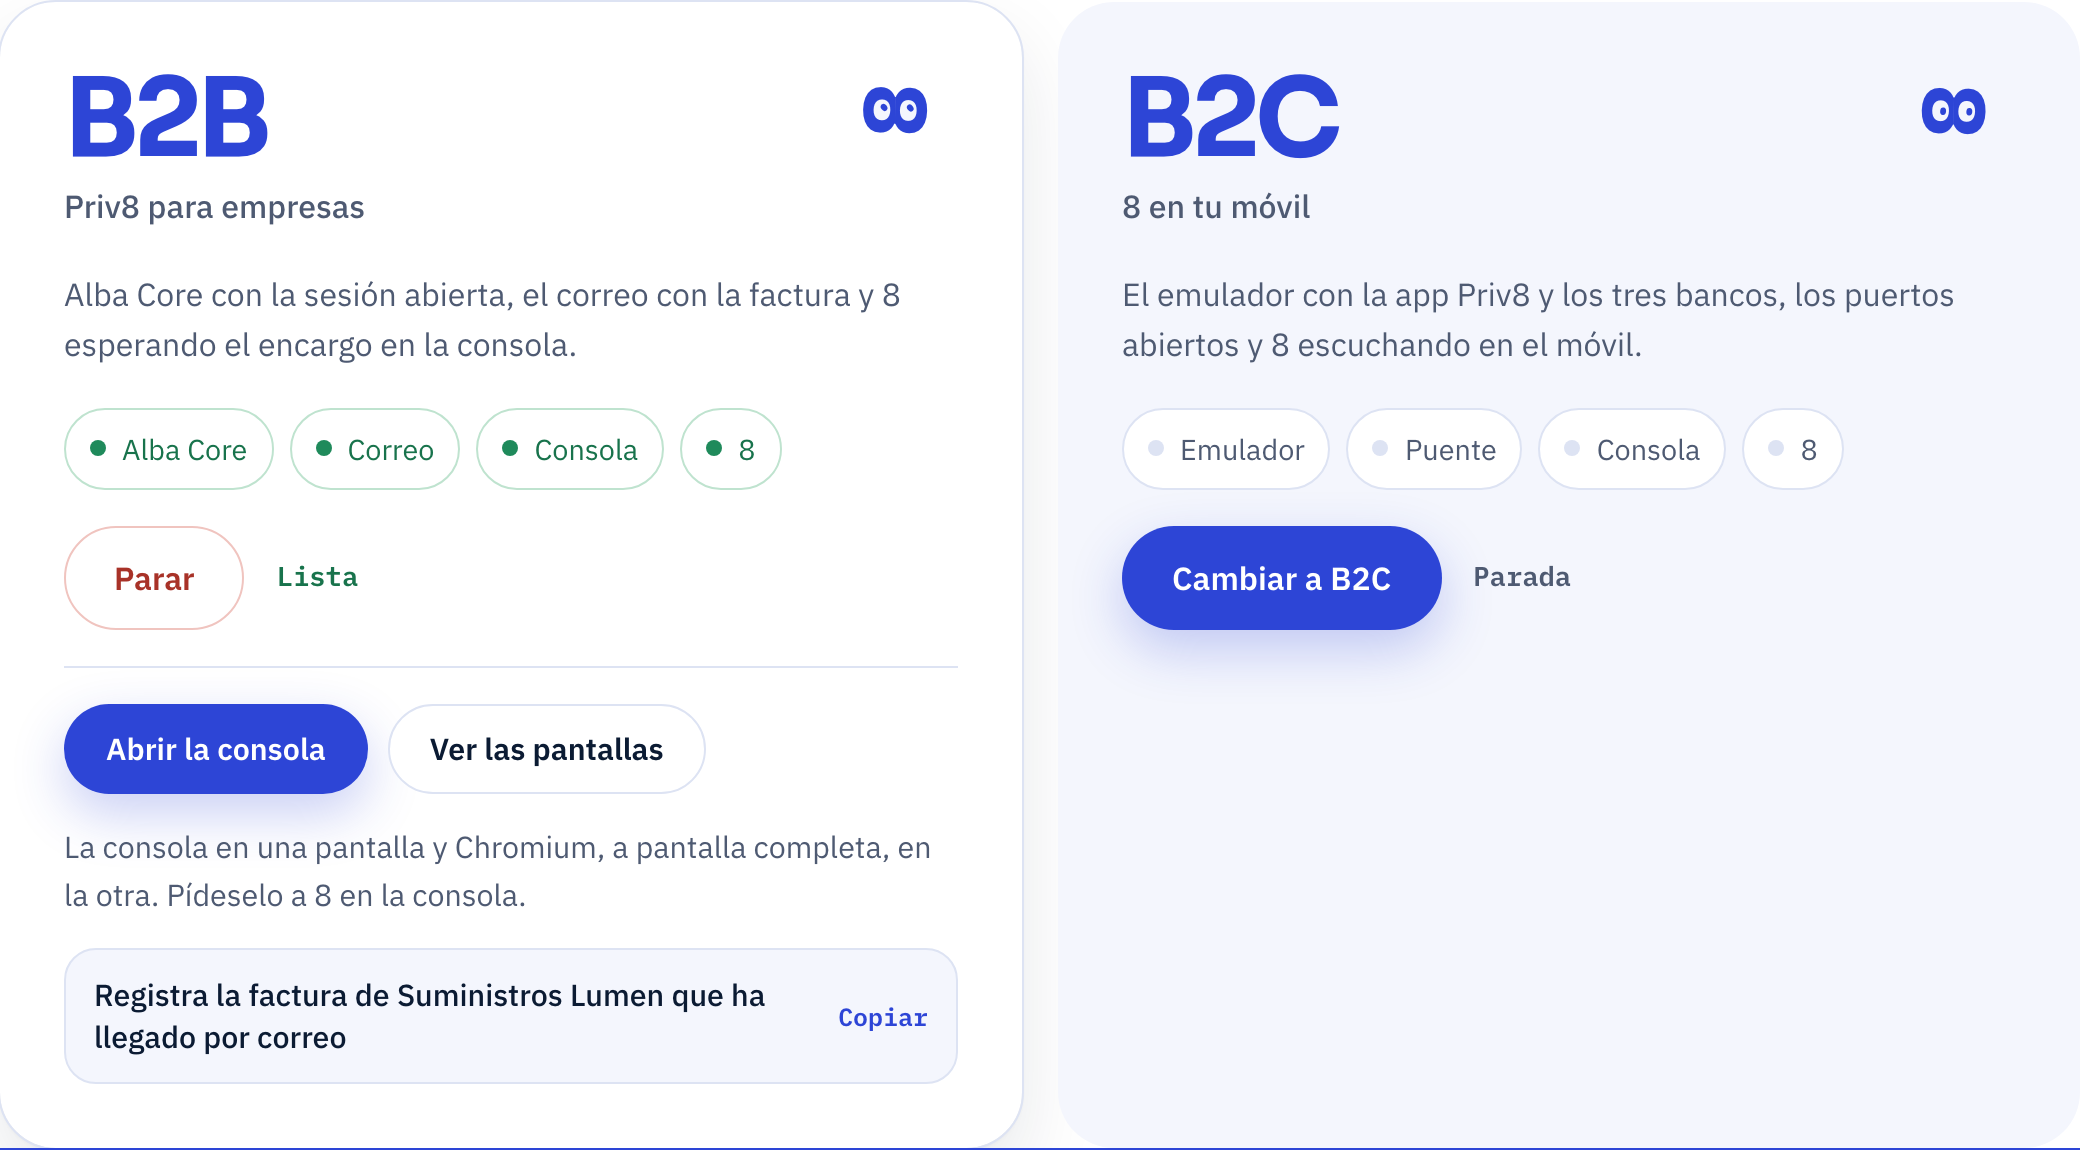
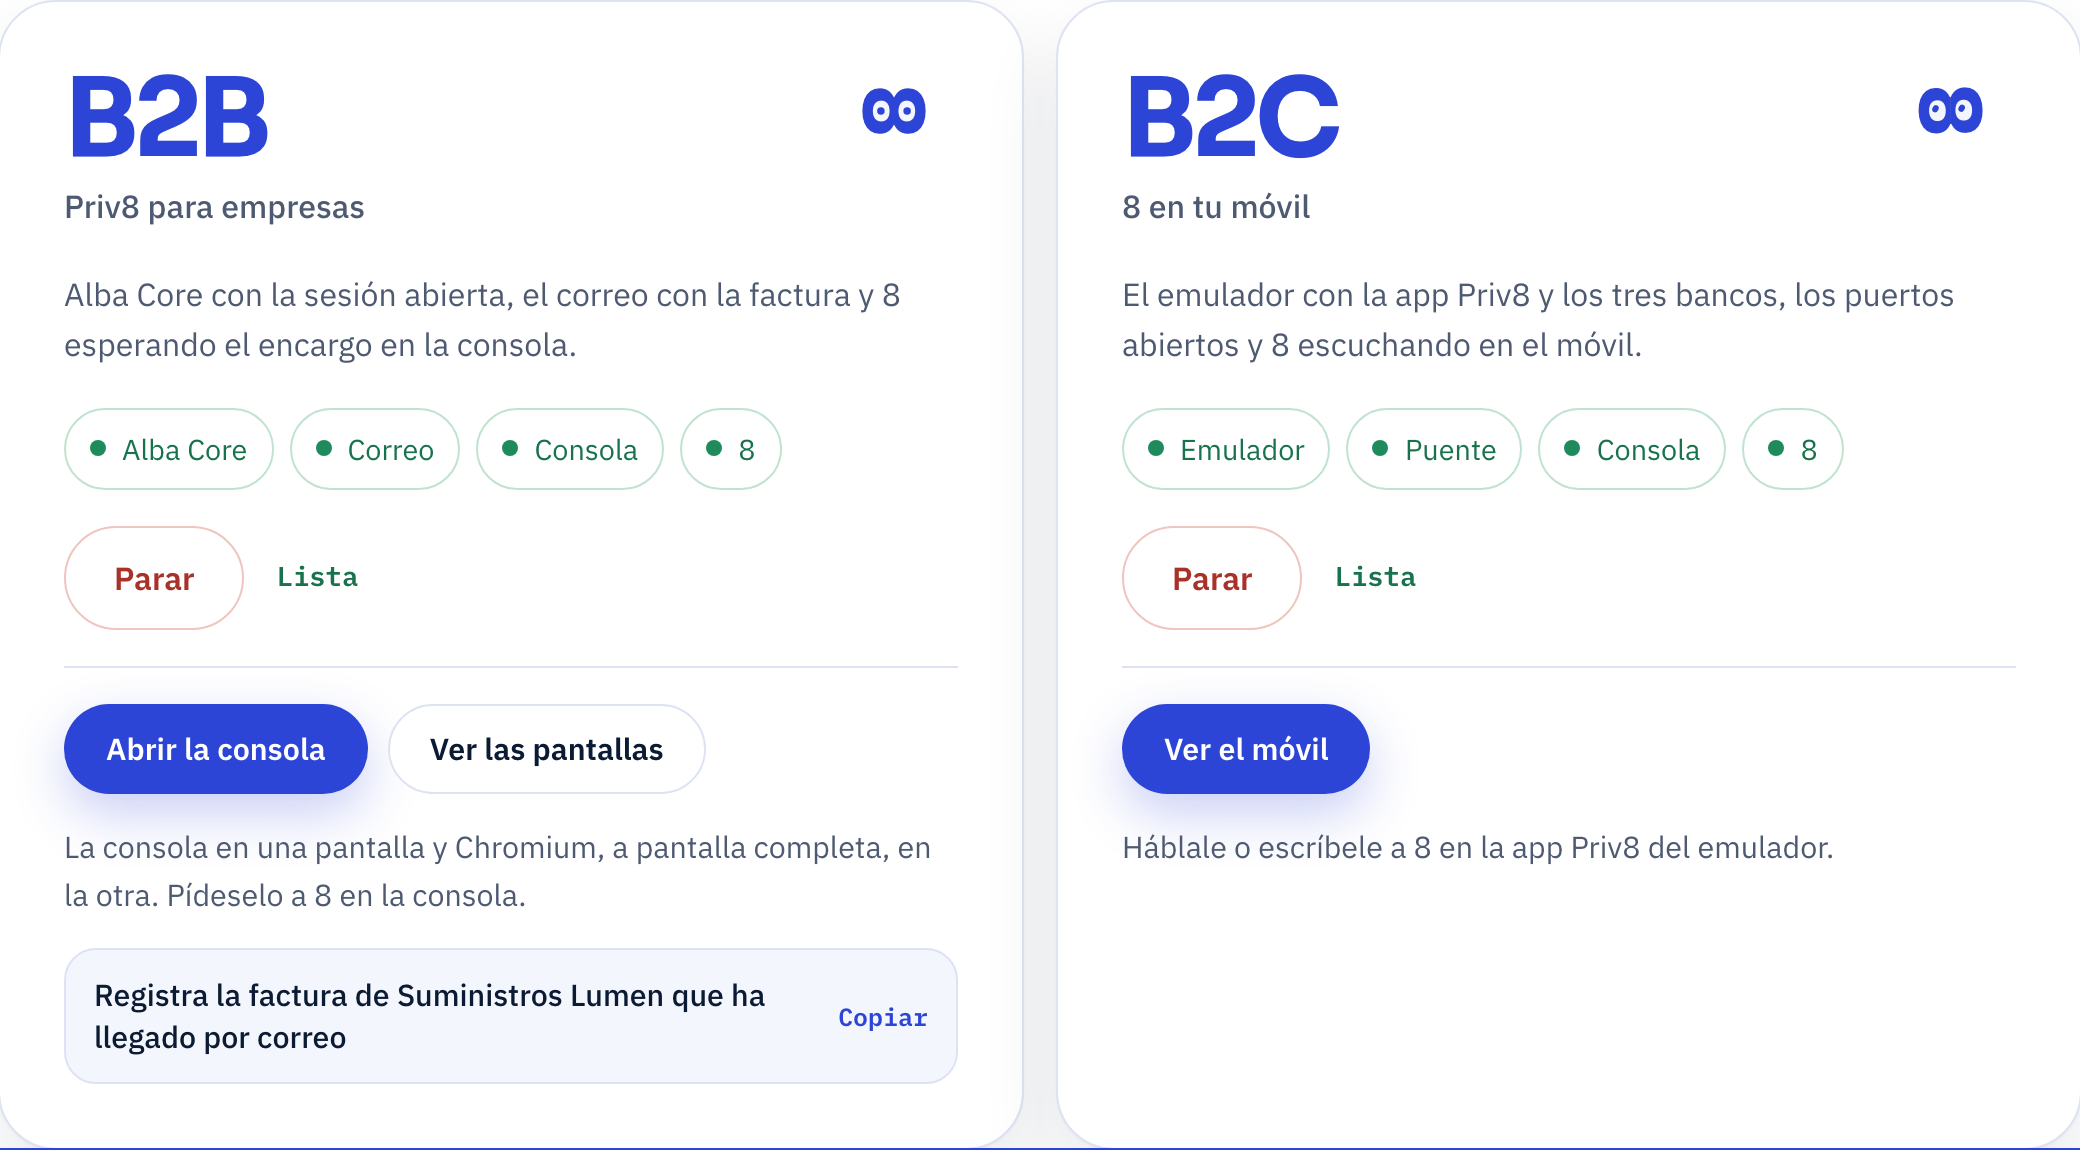
docs(readme): panel image with B2B and B2C both ready
Part of #164

diff --git a/apps/panel/src/App.jsx b/apps/panel/src/App.jsx
@@ -71,7 +71,8 @@ const OJOS = { parado: 'mirar', preparando: 'cargando', listo: 'alegria', error:
 
 function Demo({ id, estado, onAccion, busy }) {
   const d = DEMOS[id];
-  const activo = estado && estado.modo === id;
+  // modos: las dos encendidas a la vez, solo para la imagen del README (scripts/banners.py)
+  const activo = estado && (estado.modo === id || (estado.modos || []).includes(id));
   const fase = activo ? estado.fase : 'parado';
   const piezas = (activo && estado.piezas) || {};
   const otro = estado && estado.modo && estado.modo !== id;

diff --git a/scripts/banners.py b/scripts/banners.py
@@ -100,10 +100,11 @@ APPS = {
     "alba": (5283, "apps/erp-sim", {"VITE_ALBA_SESION": "admin.alba"}, "/facturas/alta", (1280, 800)),
     "correo": (5284, "apps/inbox-sim", {}, "/", (1280, 800)),
 }
-# el panel sin servidor: su /api/estado con la demo B2B lista
-ESTADO_PANEL = {"modo": "b2b", "fase": "listo", "motivo": "", "ocupado": "", "clave": True, "log": [],
+# el panel sin servidor: su /api/estado con B2B y B2C listas a la vez, las dos encendidas
+ESTADO_PANEL = {"modo": "b2b", "modos": ["b2b", "b2c"], "fase": "listo", "motivo": "", "ocupado": "",
+                "clave": True, "log": [],
                 "piezas": {"alba": True, "correo": True, "consola": True, "agente": True,
-                           "emulador": False, "puente": False}}
+                           "emulador": True, "puente": True}}
 
 
 def _espera_puerto(puerto: int, segundos: float = 40) -> None:
